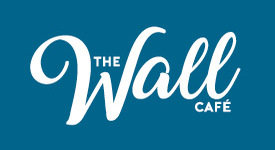
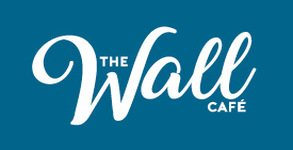
changed quality of the wall photo on index page, and updated stylesheet for fonts to match figma documentation

diff --git a/public/stylesheets/sharedComponents.css b/public/stylesheets/sharedComponents.css
@@ -51,9 +51,9 @@
     font-size: 36px;
 }
 
-.titleLower {
+.subHeaderLower {
     font-family: "Lato", sans-serif;
-    font-size: 30px;
+    font-size: 32px;
     font-weight: medium;
 }
 
